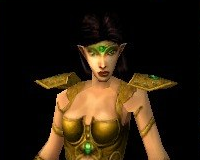
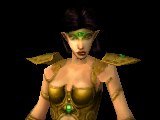
added more creatures images (see in comments of CreatureAliases)

diff --git a/Editor/src/main/java/sfgamedataeditor/common/cache/icons/aliases/CreaturesAliases.java b/Editor/src/main/java/sfgamedataeditor/common/cache/icons/aliases/CreaturesAliases.java
@@ -75,10 +75,25 @@ public class CreaturesAliases extends AbstractIconPathAlias {
         addAlias("2193.png", "161.png");
         addAlias("2194.png", "161.png");
 
-        // Hazim warrior/Krongor/Hazim guard - 1/Hazim guard - 2
+        // Hazim warrior/Krongor/Hazim guard - 1/Hazim guard - 2/Hazim sandtracer
+        // Hazim cursechanter/Trakan - 1/Trakan - 2/Trokan - 1/Trokan - 1
         addAlias("2904.png", "2094.png");
         addAlias("2436.png", "2094.png");
         addAlias("2954.png", "2094.png");
+        addAlias("2438.png", "2094.png");
+        addAlias("2092.png", "2094.png");
+        addAlias("2095.png", "2094.png");
+        addAlias("2096.png", "2094.png");
+        addAlias("2097.png", "2094.png");
+        addAlias("2098.png", "2094.png");
+
+        // Citizen of empyria - 7/Ayzo/Hazim Archer-1/Hazim Archer-2
+        addAlias("2828.png", "2852.png");
+        addAlias("2051.png", "2852.png");
+        addAlias("2090.png", "2852.png");
+        addAlias("2093.png", "2852.png");
+        addAlias("2437.png", "2852.png");
+        addAlias("2050.png", "2852.png");
 
         // Firebone fiend - 1/Firebone fiend - 2/Greater Bone Fiend
         addAlias("2958.png", "2662.png");
@@ -150,6 +165,30 @@ public class CreaturesAliases extends AbstractIconPathAlias {
         addAlias("2344.png", "2343.png");
         addAlias("2868.png", "2343.png");
         addAlias("2480.png", "2343.png");
+
+        //Cursed houri/Cursed guardian-1/Cursed guardian-2/Cursed guardian-3/Cursed guardian-4/Cursed guardian-5/Medusa
+        addAlias("1331.png", "999.png");
+        addAlias("2657.png", "999.png");
+        addAlias("2727.png", "999.png");
+        addAlias("2728.png", "999.png");
+        addAlias("2729.png", "999.png");
+        addAlias("126.png", "999.png");
+
+        // Bridge guard/Brok Dalingar/Leonidar guardsman/Leonidar guard/Villager
+        addAlias("629.png", "1172.png");
+        addAlias("491.png", "1172.png");
+        addAlias("823.png", "1172.png");
+        addAlias("2888.png", "1172.png");
+
+        //Gabar - 1/Gabar - 2
+        addAlias("2844.png", "1083.png");
+
+        //Sunder blackhand/Tombard/Tombard the brute
+        addAlias("1154.png", "628.png");
+        addAlias("1155.png", "628.png");
+
+        // Tyrgar brannon - 1/Tyrgar brannon - 2
+        addAlias("634.png", "633.png");
 
         addBalisisksAliases();
         addBeastmanAliases();
